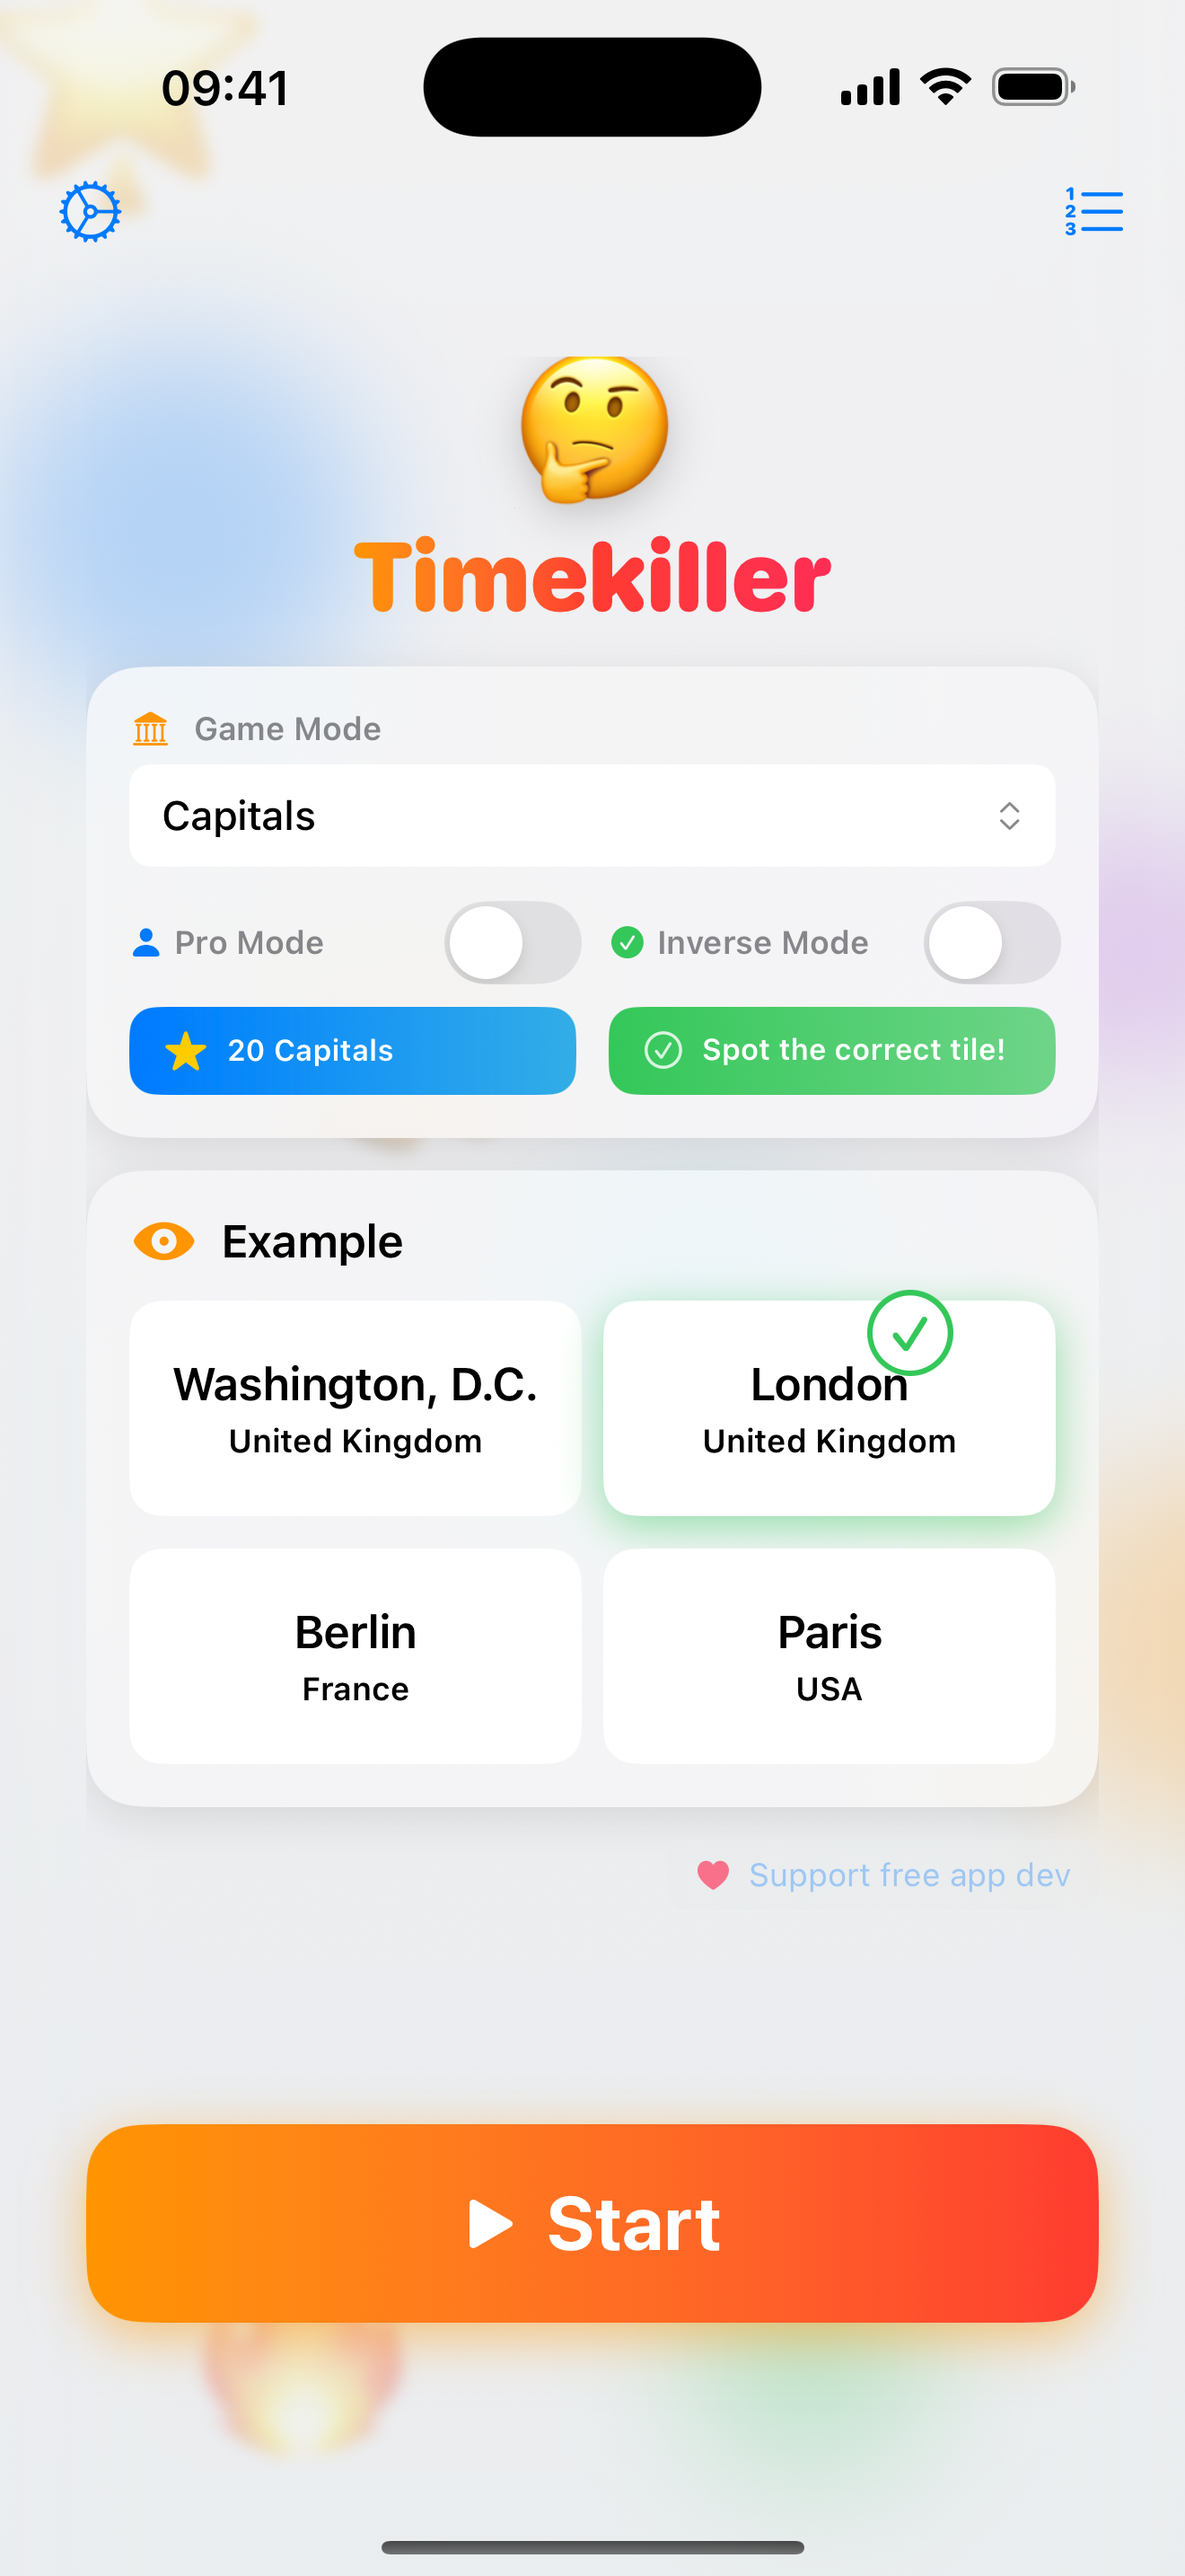
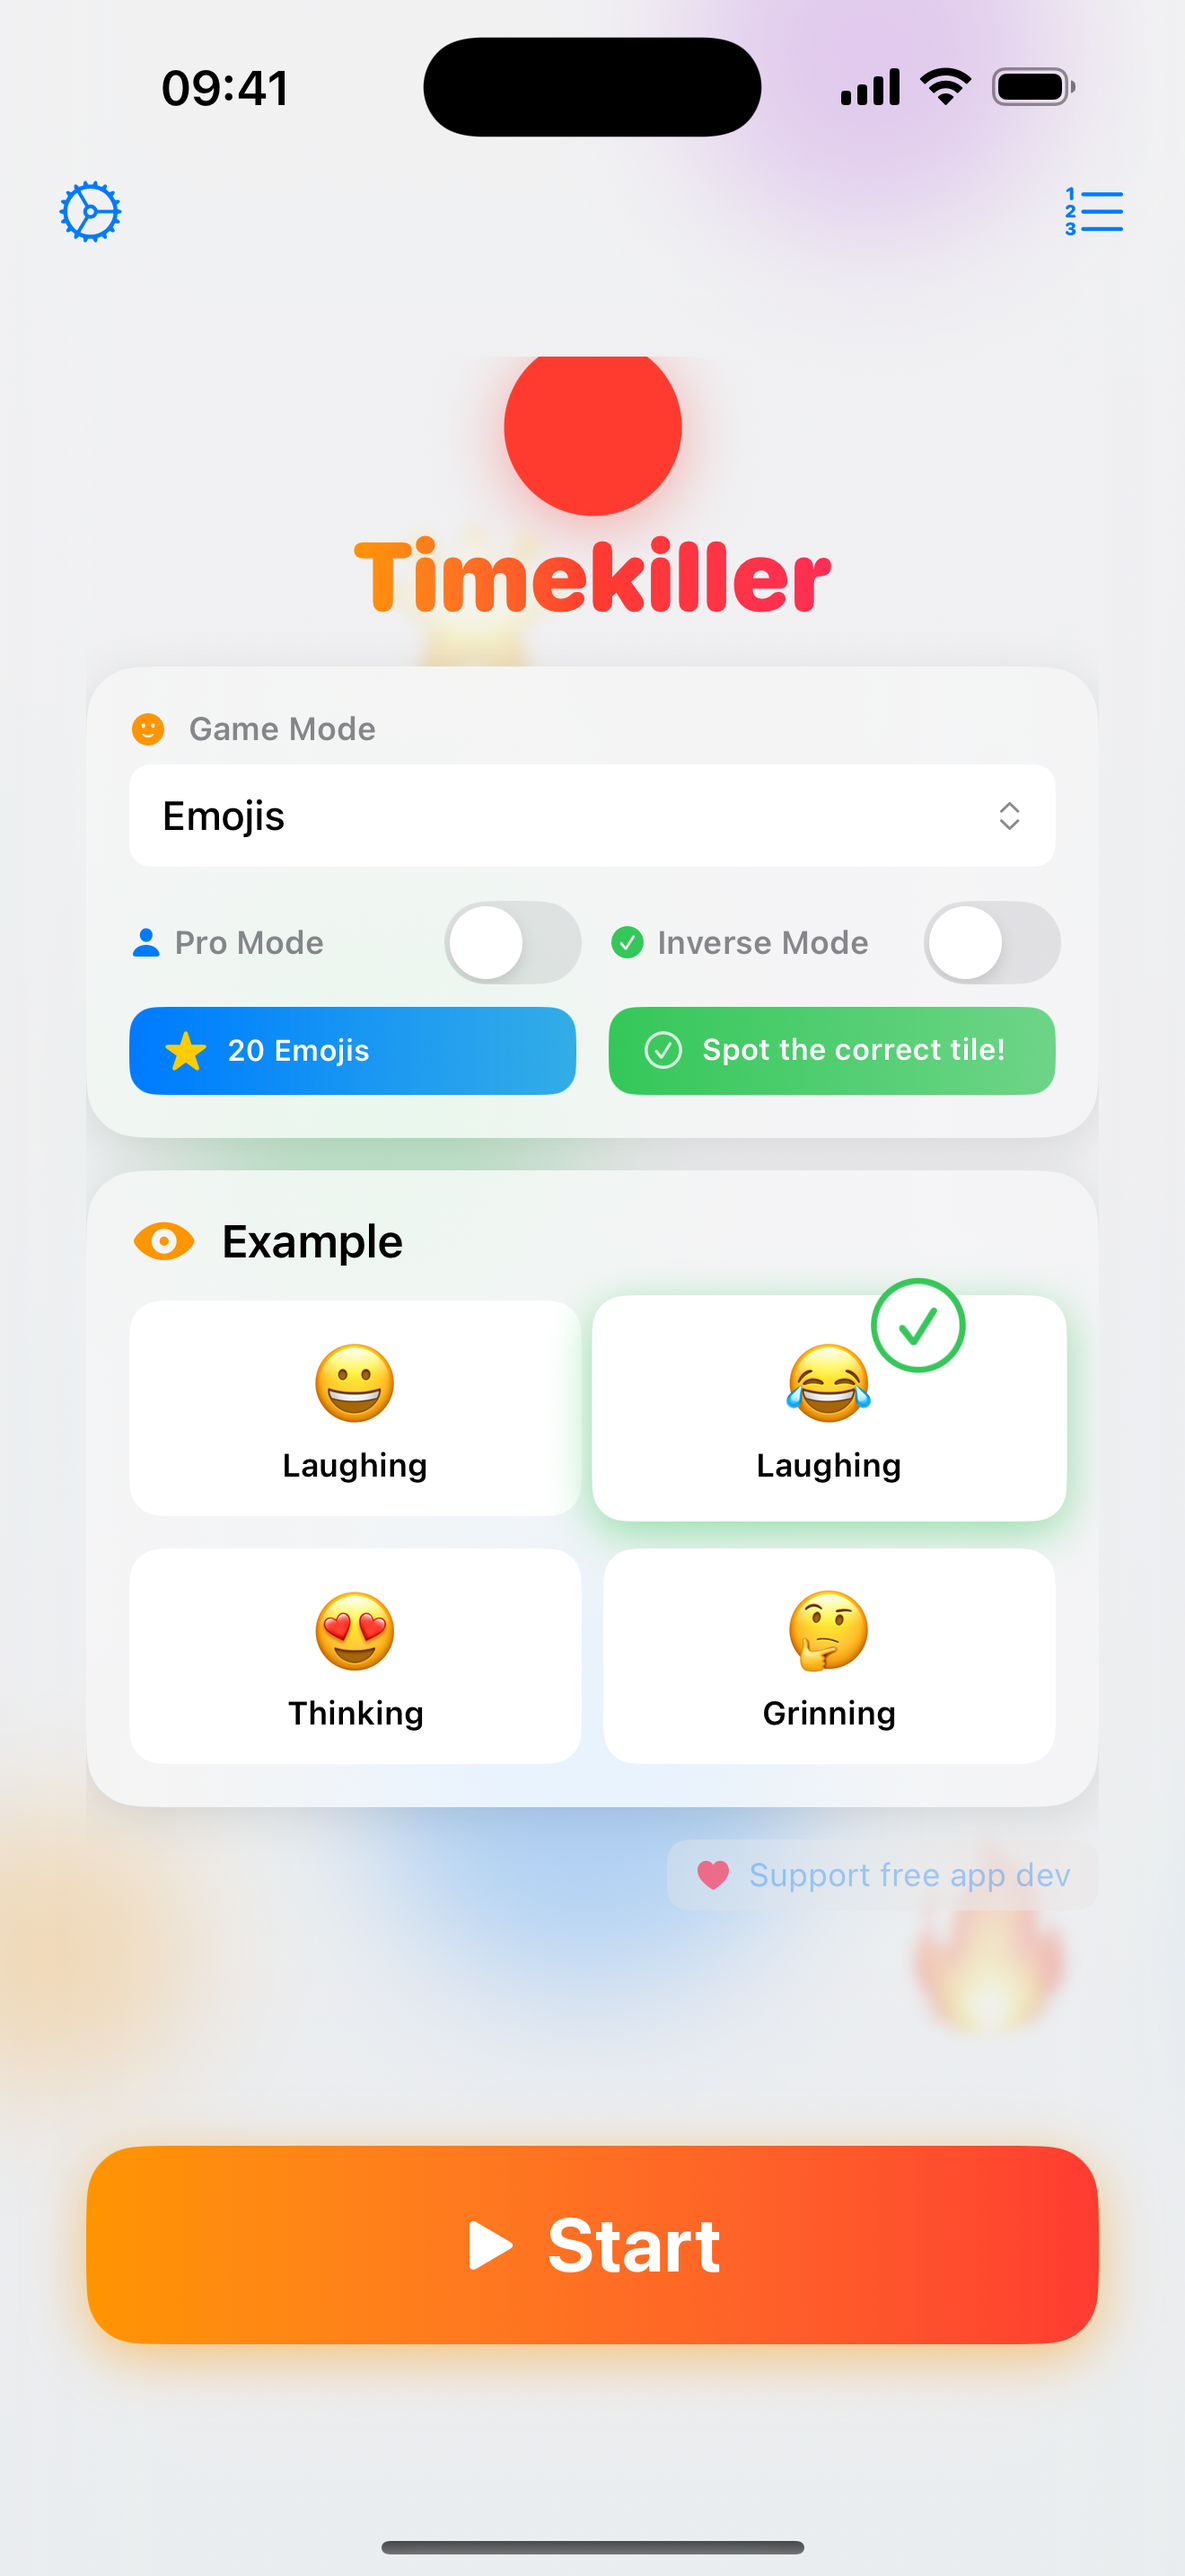
docs: refresh the iPad screenshots and lead with Emojis on iPhone
iPad shots were left alone in the previous commit because the layout did
not adapt to a 13" screen — a 2x2 grid sat as flat strips across the full
width with the lower half empty, so fresh captures would have looked
worse than the stale ones. That is fixed in the app now (1.8.1), so these
are the first iPad captures that are worth showing:

  ipad_start     start screen on Capitals
  ipad_capitals  Capitals gameplay, 3x5
  ipad_flags     Flags gameplay, 3x5

Three files stay three, renamed from play/play2 to what they show.

Also swaps the iPhone start shot from Capitals to Emojis. That image is
the one the App Store shows at thumbnail size, and the start screen takes
its colour from the example card — on Capitals that is four white tiles
of city names, which reads as a grey rectangle when small. Emojis fills
it with faces. Same reasoning applies to the site, where it is the first
image in the gallery.

Same captures as the App Store listing, so site and store stay in step.

diff --git a/index.html b/index.html
@@ -374,15 +374,15 @@
                     <h3 style="text-align: center; font-size: 1.5em; color: #667eea; margin: 30px 0 15px;">💻 iPad</h3>
                     <div class="screenshots-row">
                         <div class="screenshot-item screenshot-ipad">
-                            <img src="Assets/ipad_start.png" alt="iPad Start">
+                            <img src="Assets/ipad_start.png" alt="iPad start screen">
                         </div>
                         <div class="screenshot-item screenshot-ipad">
-                            <img src="Assets/ipad_play.png" alt="iPad Game">
+                            <img src="Assets/ipad_capitals.png" alt="Capitals mode on iPad">
                         </div>
                     </div>
                     <div class="screenshots-row">
                         <div class="screenshot-item screenshot-ipad">
-                            <img src="Assets/ipad_play2.png" alt="iPad Pro Mode">
+                            <img src="Assets/ipad_flags.png" alt="Flags mode on iPad">
                         </div>
                     </div>
 
@@ -579,15 +579,15 @@
                     <h3 style="text-align: center; font-size: 1.5em; color: #667eea; margin: 30px 0 15px;">💻 iPad</h3>
                     <div class="screenshots-row">
                         <div class="screenshot-item screenshot-ipad">
-                            <img src="Assets/ipad_start.png" alt="iPad Start">
+                            <img src="Assets/ipad_start.png" alt="iPad Startbildschirm">
                         </div>
                         <div class="screenshot-item screenshot-ipad">
-                            <img src="Assets/ipad_play.png" alt="iPad Spiel">
+                            <img src="Assets/ipad_capitals.png" alt="Hauptstädte-Modus auf dem iPad">
                         </div>
                     </div>
                     <div class="screenshots-row">
                         <div class="screenshot-item screenshot-ipad">
-                            <img src="Assets/ipad_play2.png" alt="iPad Pro-Modus">
+                            <img src="Assets/ipad_flags.png" alt="Flaggen-Modus auf dem iPad">
                         </div>
                     </div>
 

diff --git a/README.md b/README.md
@@ -44,8 +44,8 @@ https://wlfghdr.github.io/tk-p/Assets/promo.mp4
 
 #### iPad
 <img src="Assets/ipad_start.png" width="300" alt="iPad Start">
-<img src="Assets/ipad_play.png" width="300" alt="iPad Gameplay">
-<img src="Assets/ipad_play2.png" width="300" alt="iPad Pro Mode">
+<img src="Assets/ipad_capitals.png" width="300" alt="Capitals Mode on iPad">
+<img src="Assets/ipad_flags.png" width="300" alt="Flags Mode on iPad">
 
 #### Apple Watch
 <img src="Assets/watch_start.png" width="180" alt="Watch Start">
